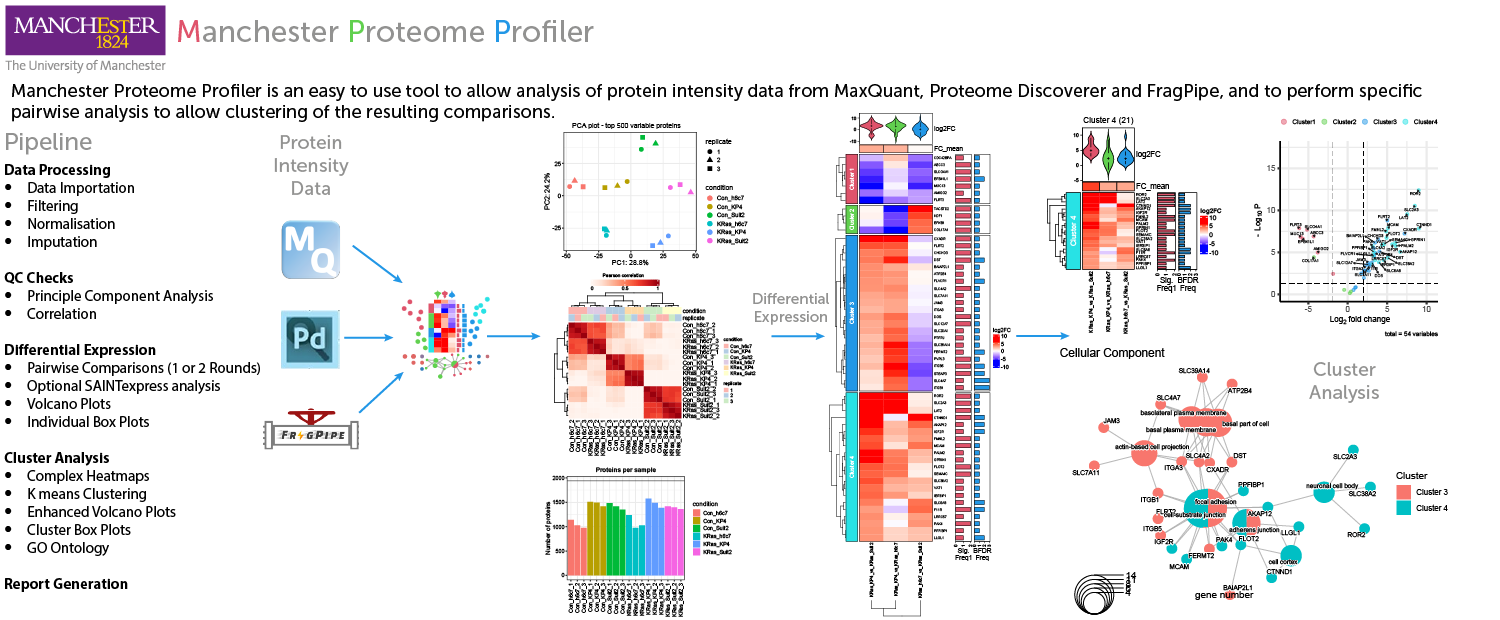
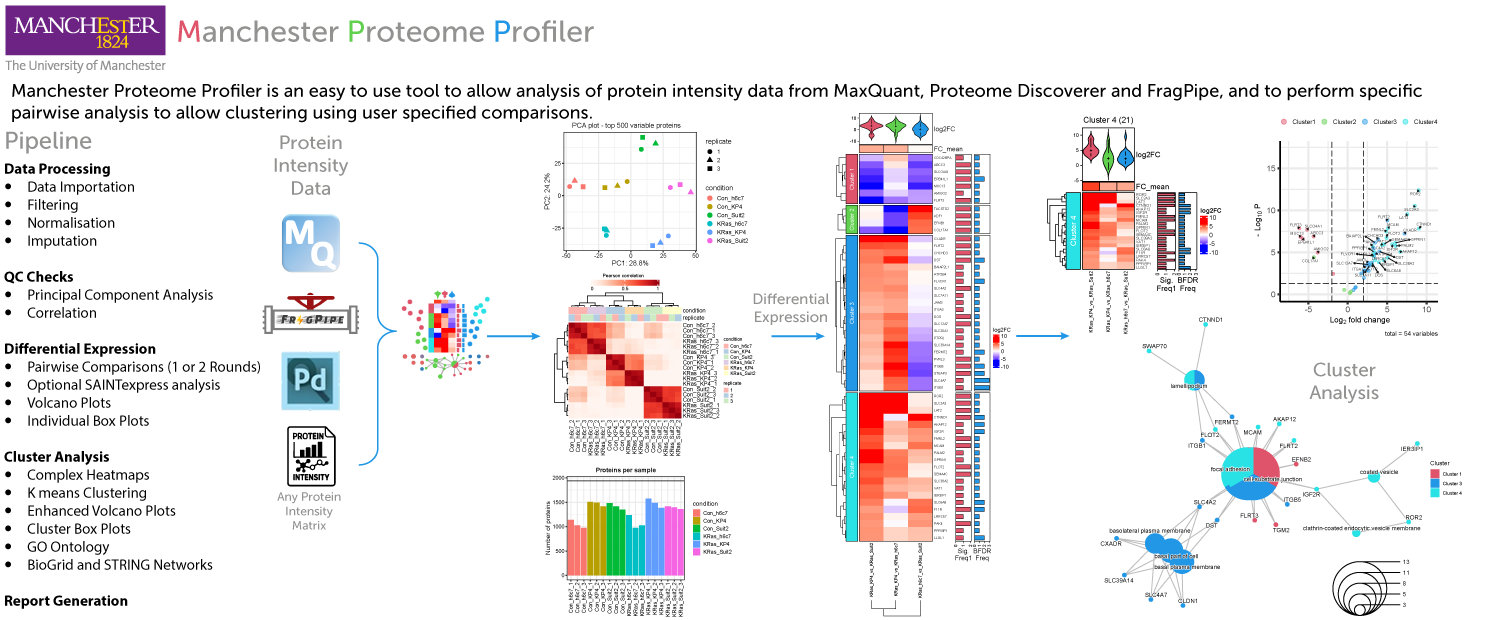
Added new instruction for BioGrid and STRING

diff --git a/app/www/index.html b/app/www/index.html
@@ -373,13 +373,29 @@
 			</div>
 			<div class="text">
 				<h3>Gene Ontology plots</h3>
-				<p>The Gene Ontology plots are generated from the proteins listed in each cluster of the complex Heatmap, and uses the clusterProfiler package. Each cluster is used to calculate enriched functional profiles using enrichGO, which are then aggregated to generate a single plot. All three GO domains can be tested, "Molecular Function", "Cellular Component" and "Biological Process" and the enrichment results are displayed as a "Dot plot" and a "Network plot". The "GO level" input box can be used to show either more global GO terms (lower number) or more granular GO terms (higher number). Before generating the Gene Ontology plots, the correct option must be selected from the "GO species" radio buttons in the top right corner of app. </p>
+				<p>The Gene Ontology plots are generated from the proteins listed in each cluster of the complex Heatmap, and uses the clusterProfiler package. Each cluster is used to calculate enriched functional profiles using enrichGO, which are then aggregated to generate a single plot. All three GO domains can be tested, "Molecular Function", "Cellular Component" and "Biological Process" and the enrichment results are displayed as a "Dot plot" and a "Network plot". The "GO level" input box can be used to show either more global GO terms (lower number) or more granular GO terms (higher number). Node size can also be controlled by the input box. Before generating the Gene Ontology plots, the correct option must be selected from the "Species" radio buttons in the top right corner of app. </p>
 				<p>Both plots can be saved as a pdf file and resized using the adjacent "PDF Width" and "PDF Height" inputs and a table of Go enrichment result data can be downloaded.</p>
 			</div>
 			<div class="image">
 				<img src="cell_comp_map.jpg" width=300px>
 			</div>
 		</div>
+				<div class="flex-container">
+			<div class="image">
+				<img src="biogrid.jpg" width=300px>
+			</div>
+			<div class="text">
+				<h3>BioGrid and STRING plots</h3>
+			<p>Network plots of both BioGrid listed interactions and STRING associations can be generated.   BioGrid and STRING searches are limited to significant protein lists of less than or equal to 160 proteins to minimize search times.  </p>
+			<p><strong>BioGrid</strong> is a biomedical interaction repository (https://thebiogrid.org/) and the network is generated by performing a search using the significant protein list, then filtering the data so it solely contains interactions between proteins on the list. Network complexity can be controlled by setting the minimum times an interaction entry between a pair of proteins is listed. This is controlled by the "Interaction Count" input box and is also indicated by the thickness of the line between the two proteins. The BioGrid database has over 10x greater number of interactions for human proteins than mouse, so if a more detailed network is needed with mouse protein data, the names can be converted to uppercase and searched against the human interaction network using the "Use Human Interaction Network Data" checkbox. This option is not suitable for Arabidopsis or Xenopus data.</p>
+			<p><strong>STRING</strong> (Search Tool for the Retrieval of Interacting Genes/Proteins) provides known and predicted protein-protein interactions (https://string-db.org). Interactions between proteins are given a confidence score ranging from 0 to 1, with 1 representing the highest level of confidence. The level of confidence can be increased from the default value of 0.4, to filter out interactions of lower confidence, and the confidence score is represented by the intensity of the line between the two proteins. Node sizes of both plots can be controlled by the "Node Size" input box.</p> 
+			<p>Before generating the BioGrid or STRING plots, the correct option must be selected from the "Species" radio buttons in the top right corner of app. Both plots can be saved as a pdf file and resized using the adjacent "PDF Width" and "PDF Height" inputs and a table of either the BioGrid evidence data or STRING interactions can be downloaded. Evidence data for the STRING network can be found on the STRING website.</p>
+			</div>
+			<div class="image">
+				<img src="STRING.jpg" width=300px>
+			</div>
+		</div>
+
 
 
 				
